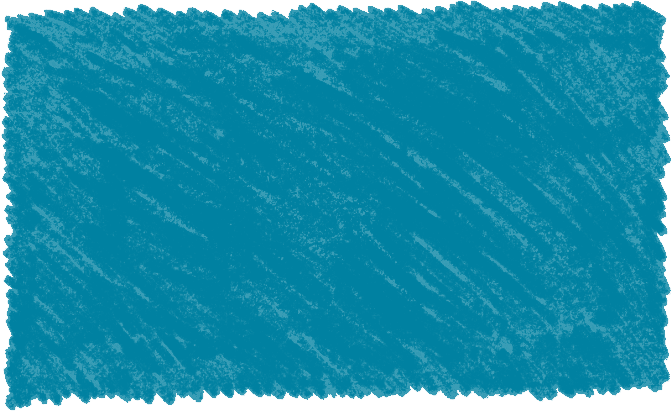
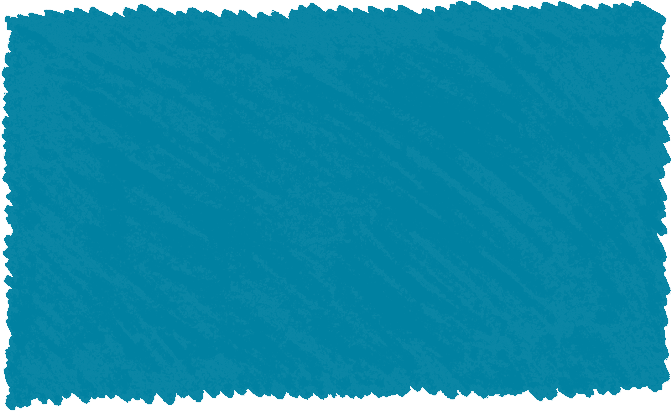
Card blu più liscia, come rosa e arancione
Il tratto blu era già scuro e lo script lo lasciava quasi com'era, con le
pennellate ben visibili. Ora si scurisce fino a 4.2:1 (contrasto opzionale
nello script).

diff --git a/scripts/prepara-card.php b/scripts/prepara-card.php
@@ -1,6 +1,6 @@
 <?php
 // Prepara la macchia a matita di una card dei profili perché il testo bianco abbia almeno 3:1.
-// Uso: php scripts/prepara-card.php macchia.png assets/images/card-<colore>.webp <colore di sistema, es. e06a1a>
+// Uso: php scripts/prepara-card.php macchia.png assets/images/card-<colore>.webp <colore di sistema, es. e06a1a> [contrasto]
 // La macchia è un PNG trasparente, orizzontale, al doppio della misura della card (672px di larghezza).
 // Vedi docs/design-tokens.md, "Card dei profili".
 //
@@ -8,10 +8,12 @@
 // Ogni punto della macchia in cui il bianco non arriva a 3:1 si avvicina al colore di sistema, solo quanto
 // basta; gli altri restano com'erano. I buchi interni (quasi trasparenti ma chiusi dalla macchia) contano
 // come macchia; il bordo esterno sfumato resta com'è.
+// Il contrasto minimo è 3.1 (3:1 con un piccolo margine). Un valore più alto rende la macchia più liscia:
+// serve a un colore il cui tratto è già scuro, perché somigli alle altre card (il blu usa 4.2).
 
 [, $sorgente, $destinazione, $esadecimale] = $argv;
+$obiettivo = (float)($argv[4] ?? 3.1);
 $sistema = sscanf($esadecimale, '%02x%02x%02x');
-$obiettivo = 3.1;
 $lineare = fn ($v) => ($v /= 255) <= 0.03928 ? $v / 12.92 : (($v + 0.055) / 1.055) ** 2.4;
 $contrasto = fn ($c) => 1.05 / (0.2126 * $lineare($c[0]) + 0.7152 * $lineare($c[1]) + 0.0722 * $lineare($c[2]) + 0.05);
 

diff --git a/docs/design-tokens.md b/docs/design-tokens.md
@@ -145,7 +145,7 @@ I valori vengono dai wireframe definitivi (Figma, pagina "wireframe - v5 - final
 ## Card dei profili (A chi ci rivolgiamo)
 
 - **Forma:** la macchia a matita di Laura nel colore del profilo (`assets/images/card-<colore>.webp`), stirata sulla card: se il testo cresce, la card si allunga e il testo non esce mai dalla forma. Proporzioni 302 × 185, larga `--card-larghezza` (302px su mobile, 335px su desktop).
-- **Contrasto:** il tratto a matita è semitrasparente, quindi sul bianco della pagina i colori risultano più chiari di quelli di sistema (arancione 2.9:1 in media). Le macchie sono state scurite verso il colore di sistema solo nei punti in cui il bianco non arrivava a 3:1, e solo quanto bastava: il bianco ha ovunque almeno 3:1, che basta perché tutto il testo della card è grande (regola 3). Una nuova macchia si prepara allo stesso modo con `php scripts/prepara-card.php macchia.png assets/images/card-<colore>.webp <esadecimale del colore>` (PNG trasparente e orizzontale, largo 672px).
+- **Contrasto:** il tratto a matita è semitrasparente, quindi sul bianco della pagina i colori risultano più chiari di quelli di sistema (arancione 2.9:1 in media). Le macchie sono state scurite verso il colore di sistema solo nei punti in cui il bianco non arrivava a 3:1, e solo quanto bastava: il bianco ha ovunque almeno 3:1, che basta perché tutto il testo della card è grande (regola 3). Il tratto blu di Laura era già scuro e restava molto più a pennellate delle altre due: per uniformarlo, il blu è scurito fino a 4.2:1 invece di 3.1:1. Una nuova macchia si prepara allo stesso modo con `php scripts/prepara-card.php macchia.png assets/images/card-<colore>.webp <esadecimale del colore> [contrasto]` (PNG trasparente e orizzontale, largo 672px).
 - **Testo:** nome del profilo in `--text-titolo-2` (come nel frame mobile; nel frame desktop il gruppo era ingrandito a 28.8px), "Scopri di più" con l'aspetto di un link, in basso a destra. Tutta la card è un solo link; al passaggio del mouse la sottolineatura si ispessisce.
 - **Mobile:** una sotto l'altra, sfalsate: la seconda rientra di `--spazio-7`, la terza di `--spazio-4`. Sotto, solo su mobile, l'illustrazione dei musicisti (`--illustrazione-destinatari`).
 - **Desktop:** in fila a tutta larghezza, a `--spazio-8` l'una dall'altra, ruotate (−4°, 2°, 5°) e scese di `--spazio-7`, 0 e `--spazio-6`, come se fossero appoggiate a mano. Se non ci stanno in tre (da 1024 a circa 1280px), vanno a capo due e una, senza stringersi. Le varianti si ripetono ogni tre card.
